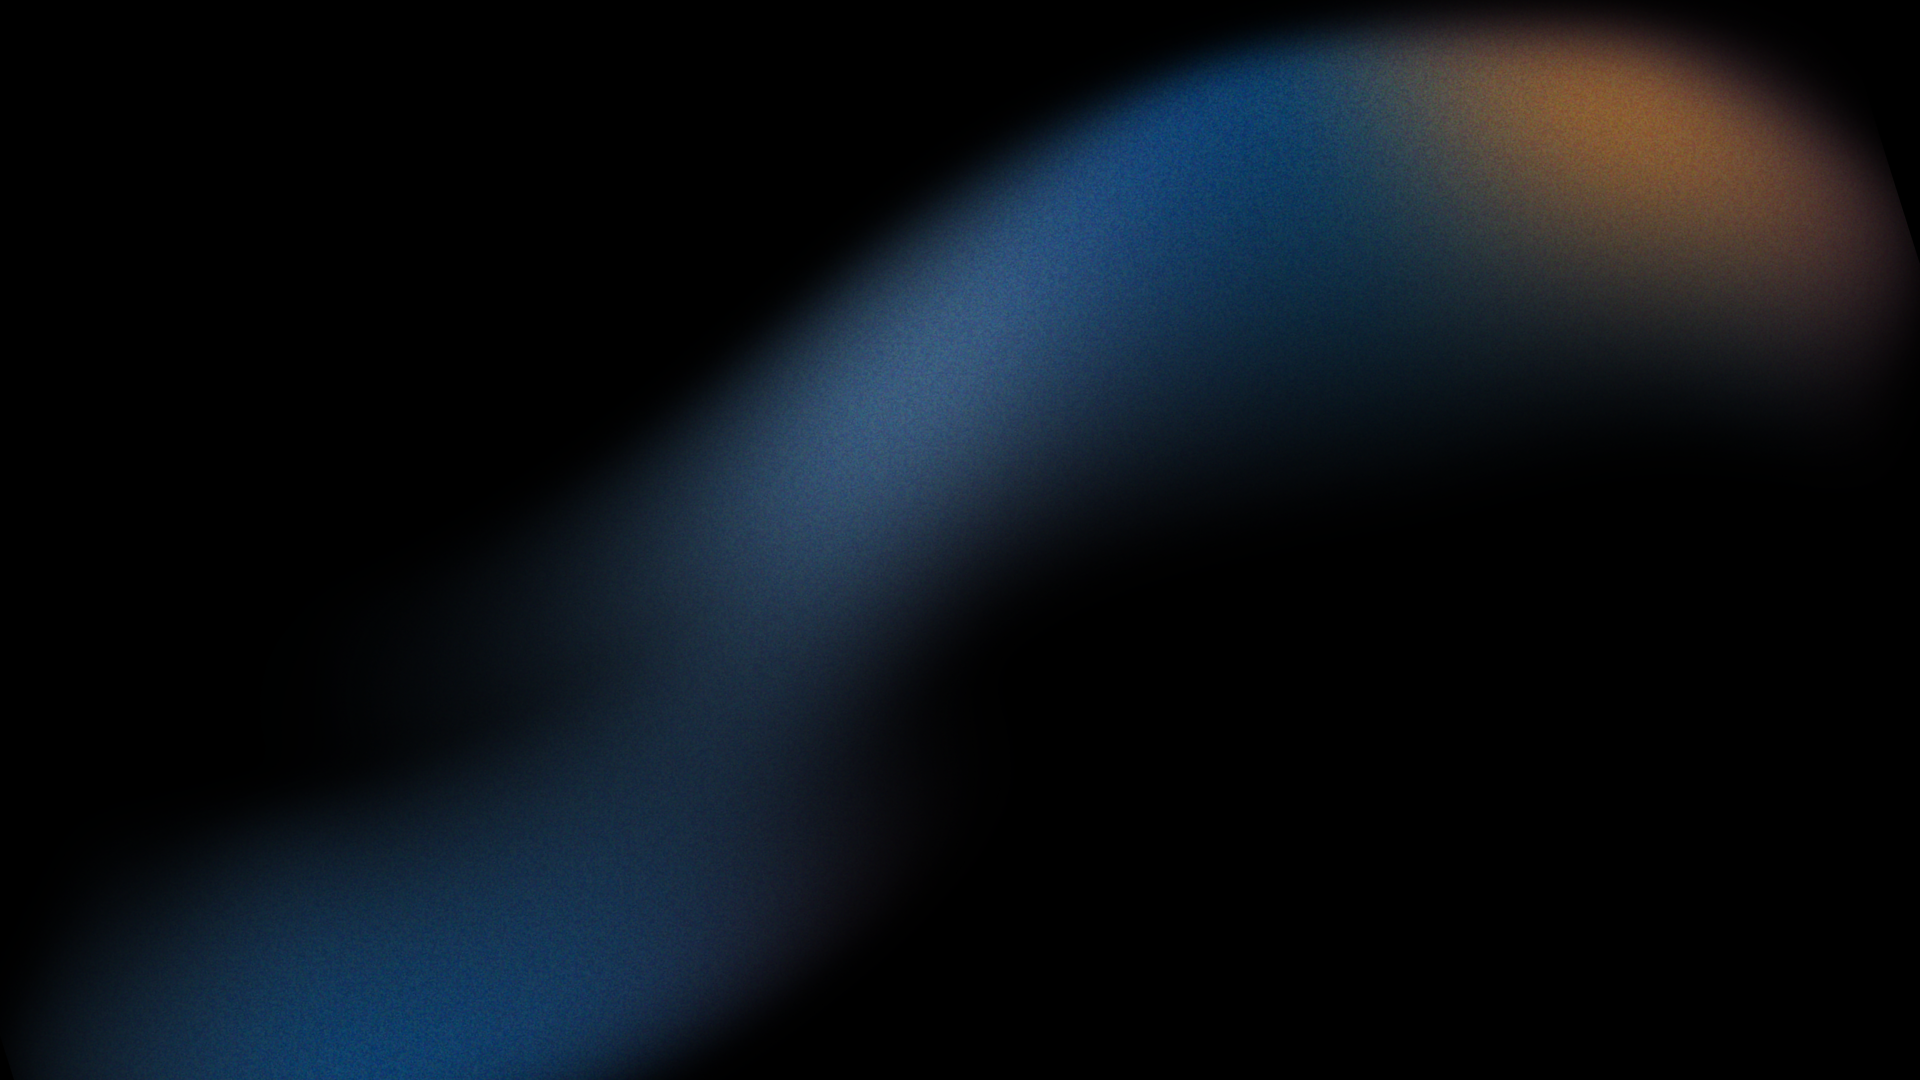
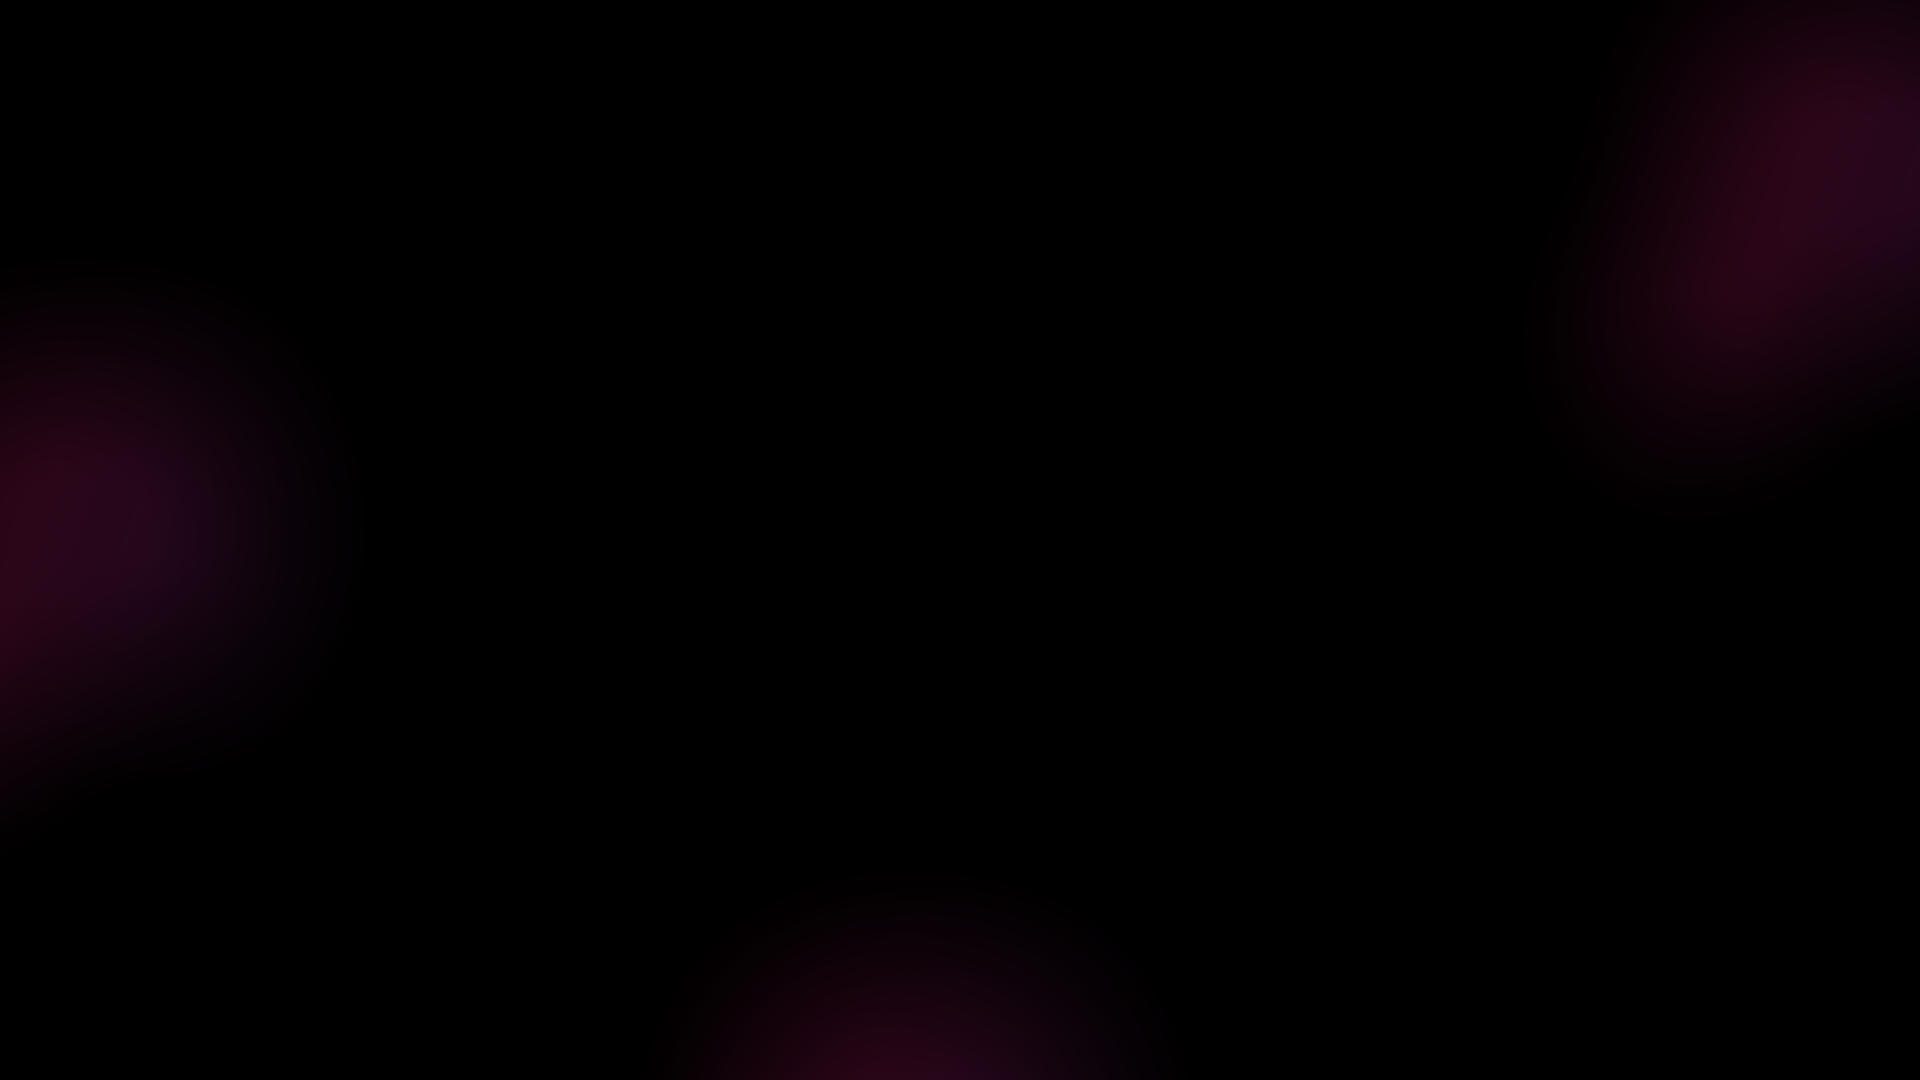
some chances (class, photo, and more) and final project

diff --git a/index.html b/index.html
@@ -2,17 +2,17 @@
 <html lang="pt-br">
 <head>
   <meta charset="UTF-8">
-  <meta name="viewport" content="width=device-width, initial-scale=1.0">
-  <meta name="description" content="Página de contato de Roberto Medeiros">
-  <link rel="stylesheet" href="style.css">
   <link rel="preconnect" href="https://fonts.googleapis.com">
   <link rel="preconnect" href="https://fonts.gstatic.com" crossorigin>
+  <meta name="viewport" content="width=device-width, initial-scale=1.0">
+  <meta name="description" content="Página de contato de Roberto Medeiros">
+  <link rel="stylesheet" href="/style.css">
   <title>Página de contato</title>
-   <link href="https://fonts.googleapis.com/css2?family=Inter:ital,opsz,wght@0,14..32,100..900;1,14..32,100..900&display=swap" rel="stylesheet">
+  <link href="https://fonts.googleapis.com/css2?family=Inter:ital,opsz,wght@0,14..32,100..900;1,14..32,100..900&display=swap" rel="stylesheet">
 </head>
 <body>
-    <div class="foto">
-      <img src="/assests/asda.png" alt="Imagem do perfil">
+    <div class="photo">
+      <img src="/assests/profile-picture.png" alt="Imagem do perfil">
     </div>
   <section>
     <h1>Roberto Medeiros</h1>
@@ -28,8 +28,8 @@
     </ul>
   </section>
   <footer>
-    <p>criado por roberto medeiros</p>
-    <p>todos os direitos reservados</p> 
+    <p>criado por roberto medeiros, with coffee. </p>
+    <p>direitos reservados</p> 
   </footer>
 </body>
 </html>

diff --git a/style.css b/style.css
@@ -4,16 +4,16 @@
   font-family: Inter, sans-serif;
 }
 body {
-  background: url(/assests/bg2.png) no-repeat center fixed;
+  background: url(/assests/bg.png) no-repeat center fixed;
   background-size: cover;
 }
 
-.foto {
+.photo {
   display: flex;
   justify-content: center;
   margin-top: 140px;
 }
-.foto > img {
+.photo > img {
   height: 200px;
   border-radius: 50px 50px;
 }
